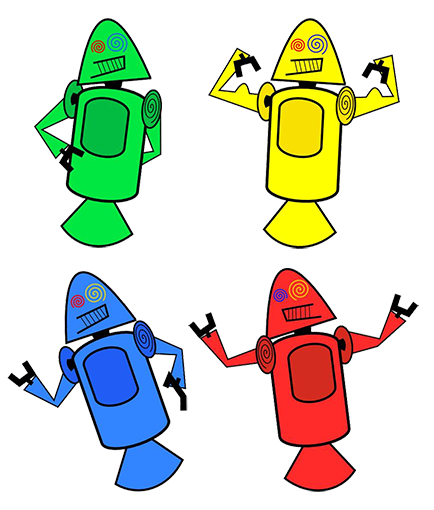
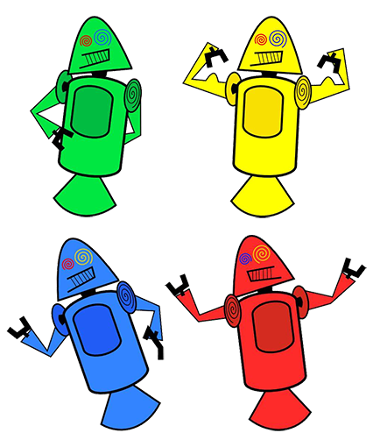
Add files via upload

diff --git a/css/style.css b/css/style.css
@@ -74,10 +74,6 @@ main{
     box-shadow: 4px 4px 4px 7px rgba(0, 0, 0, 0.322);
 }
 
-img{
-    width: 320px;
-}
-
 @font-face {
     font-family:fonte;
     src: url('../fontes/idroid.otf') format(opentype);
